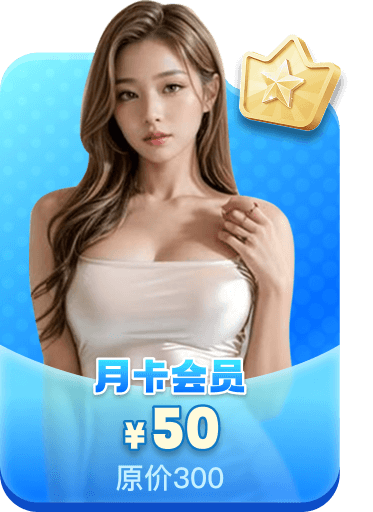
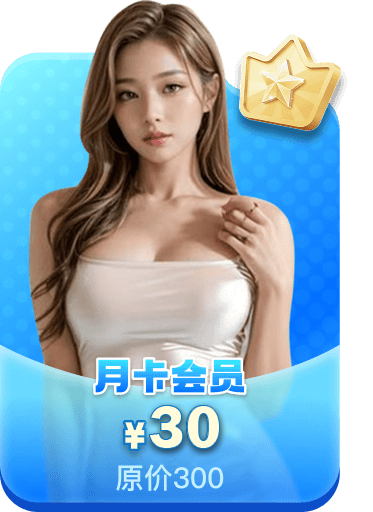
图片

Changed region(s): [[0.3834, 0.7812, 0.6193, 0.9062]]

diff --git a/src/views/Vip/index.vue b/src/views/Vip/index.vue
@@ -24,12 +24,23 @@
         </div>
       </div>
     </div>
-
+      
      <van-radio-group v-model="checked" direction="horizontal" style="padding: 10px 0px;">
                 <van-radio :name="index" v-for="(item, index) in payList" :key="item.ID" checked-color="#FF960C">
                     <div style="color: white;">{{ item }}</div>
                 </van-radio>
             </van-radio-group>
+               <div  class="gradient-text-time">
+               <div class="time-text"><div class="l-text">限时优惠</div> |<div class="text">距优惠结束仅剩</div></div><van-count-down :time="time">
+                <template #default="timeData">
+                    <span class="block">{{ timeData.hours }}</span>
+                    <span class="colon">:</span>
+                    <span class="block">{{ timeData.minutes }}</span>
+                    <span class="colon">:</span>
+                    <span class="block">{{ timeData.seconds }}</span>
+                </template>
+                </van-count-down>
+            </div>
             <div class="btn" @click="onPay()">立即升级</div>
 
             <div class="gr-text">会员权益</div>
@@ -65,6 +76,8 @@ import { post } from '@/utils/request'
 import { showToast, showLoadingToast, closeToast,showFailToast } from 'vant';
 import { ref, onMounted, nextTick } from 'vue';
 import { useRouter } from 'vue-router';
+ const time = ref(15 * 60  * 1000);
+
 const cards = [
   { pic: '/vipgo/1.png', text: '图1' },
   { pic: '/vipgo/2.png', text: '图2' },
@@ -85,7 +98,7 @@ const iconList = [
 
 const list= [{
 				comSpec:30,
-				money:50,
+				money:30,
 			},{
 				comSpec:90,
 				money:100,
@@ -387,4 +400,41 @@ onMounted(async() => {
 	padding: 0px 20px;
 }
 
+</style>
+
+<style lang="less" scoped>
+.gradient-text-time{
+  display: flex;
+  align-items: center;
+  justify-content: center;
+  font-size: 16px;
+  .time-text{
+    display: flex;
+    align-items: center;
+    .l-text{
+       padding-right:8px;
+    }
+    .text{
+      padding-left:8px;
+      padding-right: 8px;
+      color: #E20100;
+    }
+  }
+}
+  .colon {
+    display: inline-block;
+    margin: 0 4px;
+    color: #1989fa;
+  }
+  .block {
+    margin: 15px 0px;
+    display: inline-block;
+    width: 22px;
+    height: 26px;
+    line-height: 26px;
+    color: #fff;
+    font-size: 20px;
+    text-align: center;
+     background-color: #E20100;
+  }
 </style>

diff --git a/src/views/Pay/index.vue b/src/views/Pay/index.vue
@@ -67,6 +67,7 @@
                     <div style="color: white;">{{ item }}</div>
                 </van-radio>
             </van-radio-group>
+       
             <div class="btn" @click="onPay()">立即升级</div>
 
             <!-- <div class="t">会员特权</div>
@@ -114,7 +115,6 @@ const privilegeList = ref<any>([
 
 const title = ref<any>('暂未开通vip')
 const payList = ref<any>([])
-
 const vip = ref<any>(false)
 const limitPrice = (item: any) => {
   if (!item.price) return
@@ -251,7 +251,7 @@ const onPay = async () => {
       await onJct(); // 另一种支付逻辑
     }
     // 成功提示
-  } catch (err) {
+            } catch (err) {
     console.error(err);
     showToast({
       message: '支付失败',

diff --git a/src/utils/request.js b/src/utils/request.js
@@ -30,11 +30,16 @@ service.interceptors.response.use(
        // 清理本地 token
       localStorage.removeItem('token')
 
-      // 提示用户
-      showToast('登录已过期，请重新登录')
+        // 提示用户，3秒自动关闭
+      showToast({
+        message: '登录已过期，请重新登录',
+        duration: 3000, // 3 秒
+      });
 
-      // 跳转到登录页
-      router.replace('/login')
+      // 3秒后跳转到登录页
+      setTimeout(() => {
+        router.replace('/login');
+      }, 3000);
 
       // 阻止后续代码执行
       return Promise.reject(new Error('登录过期'))
